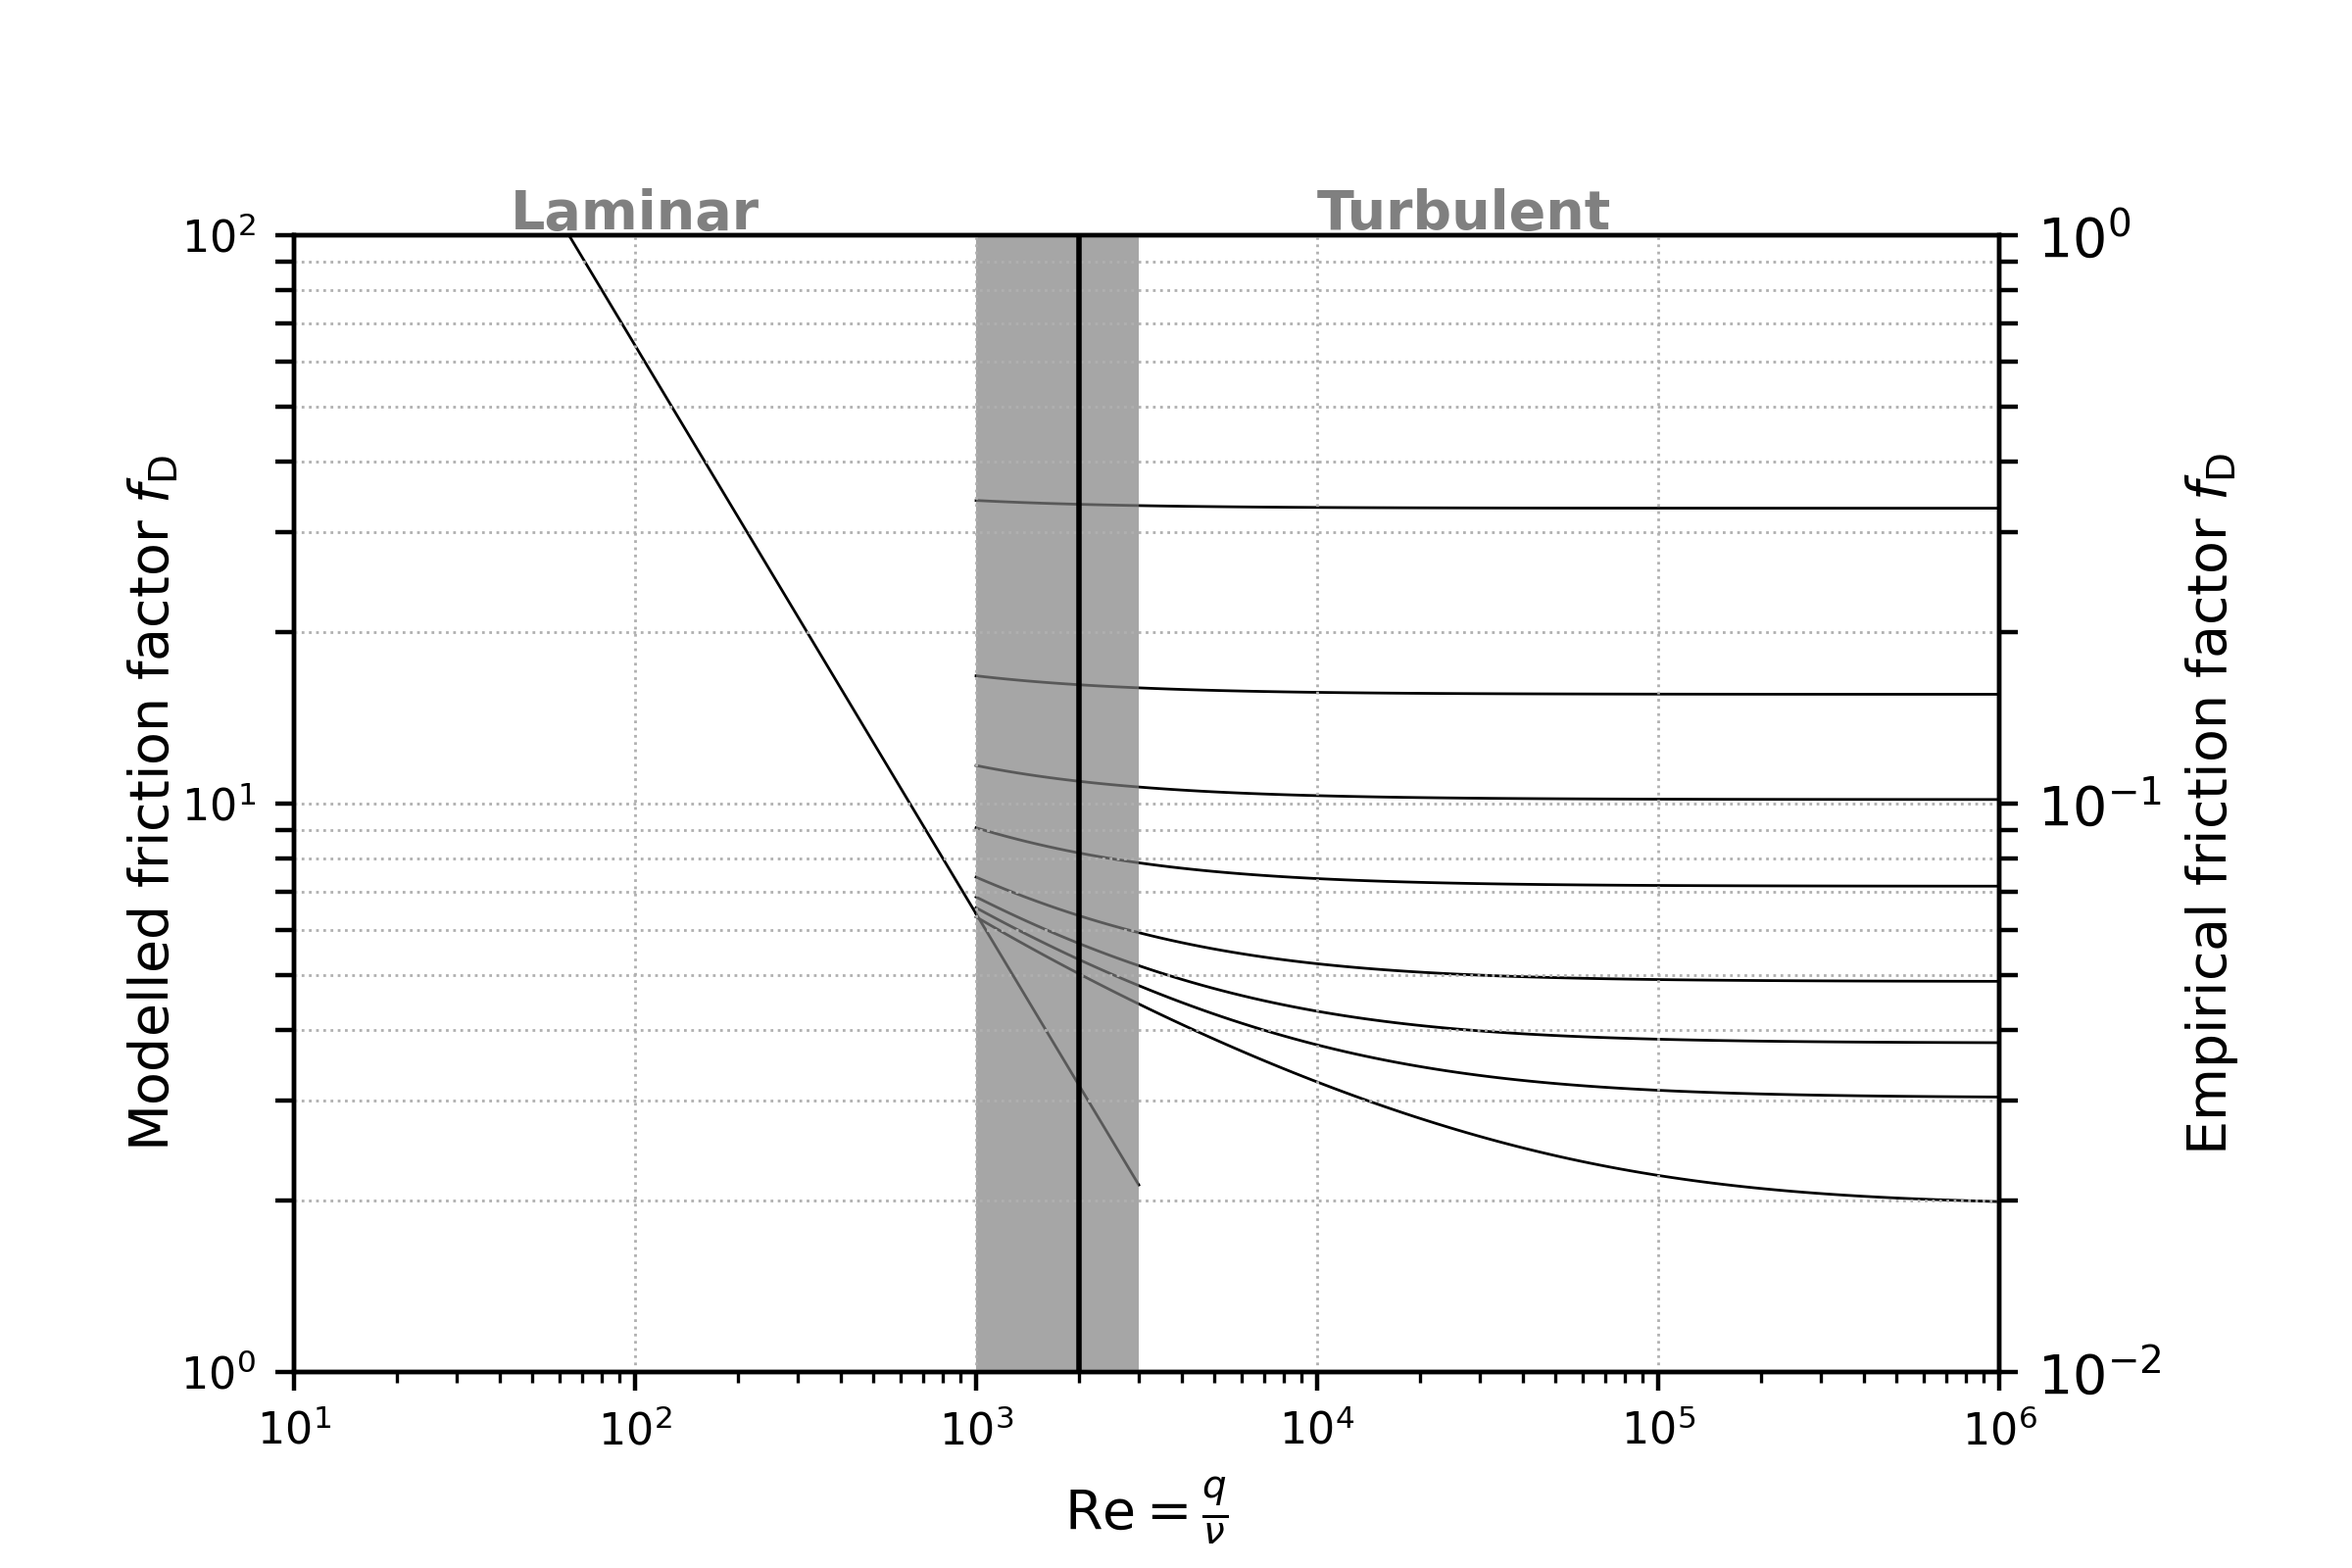
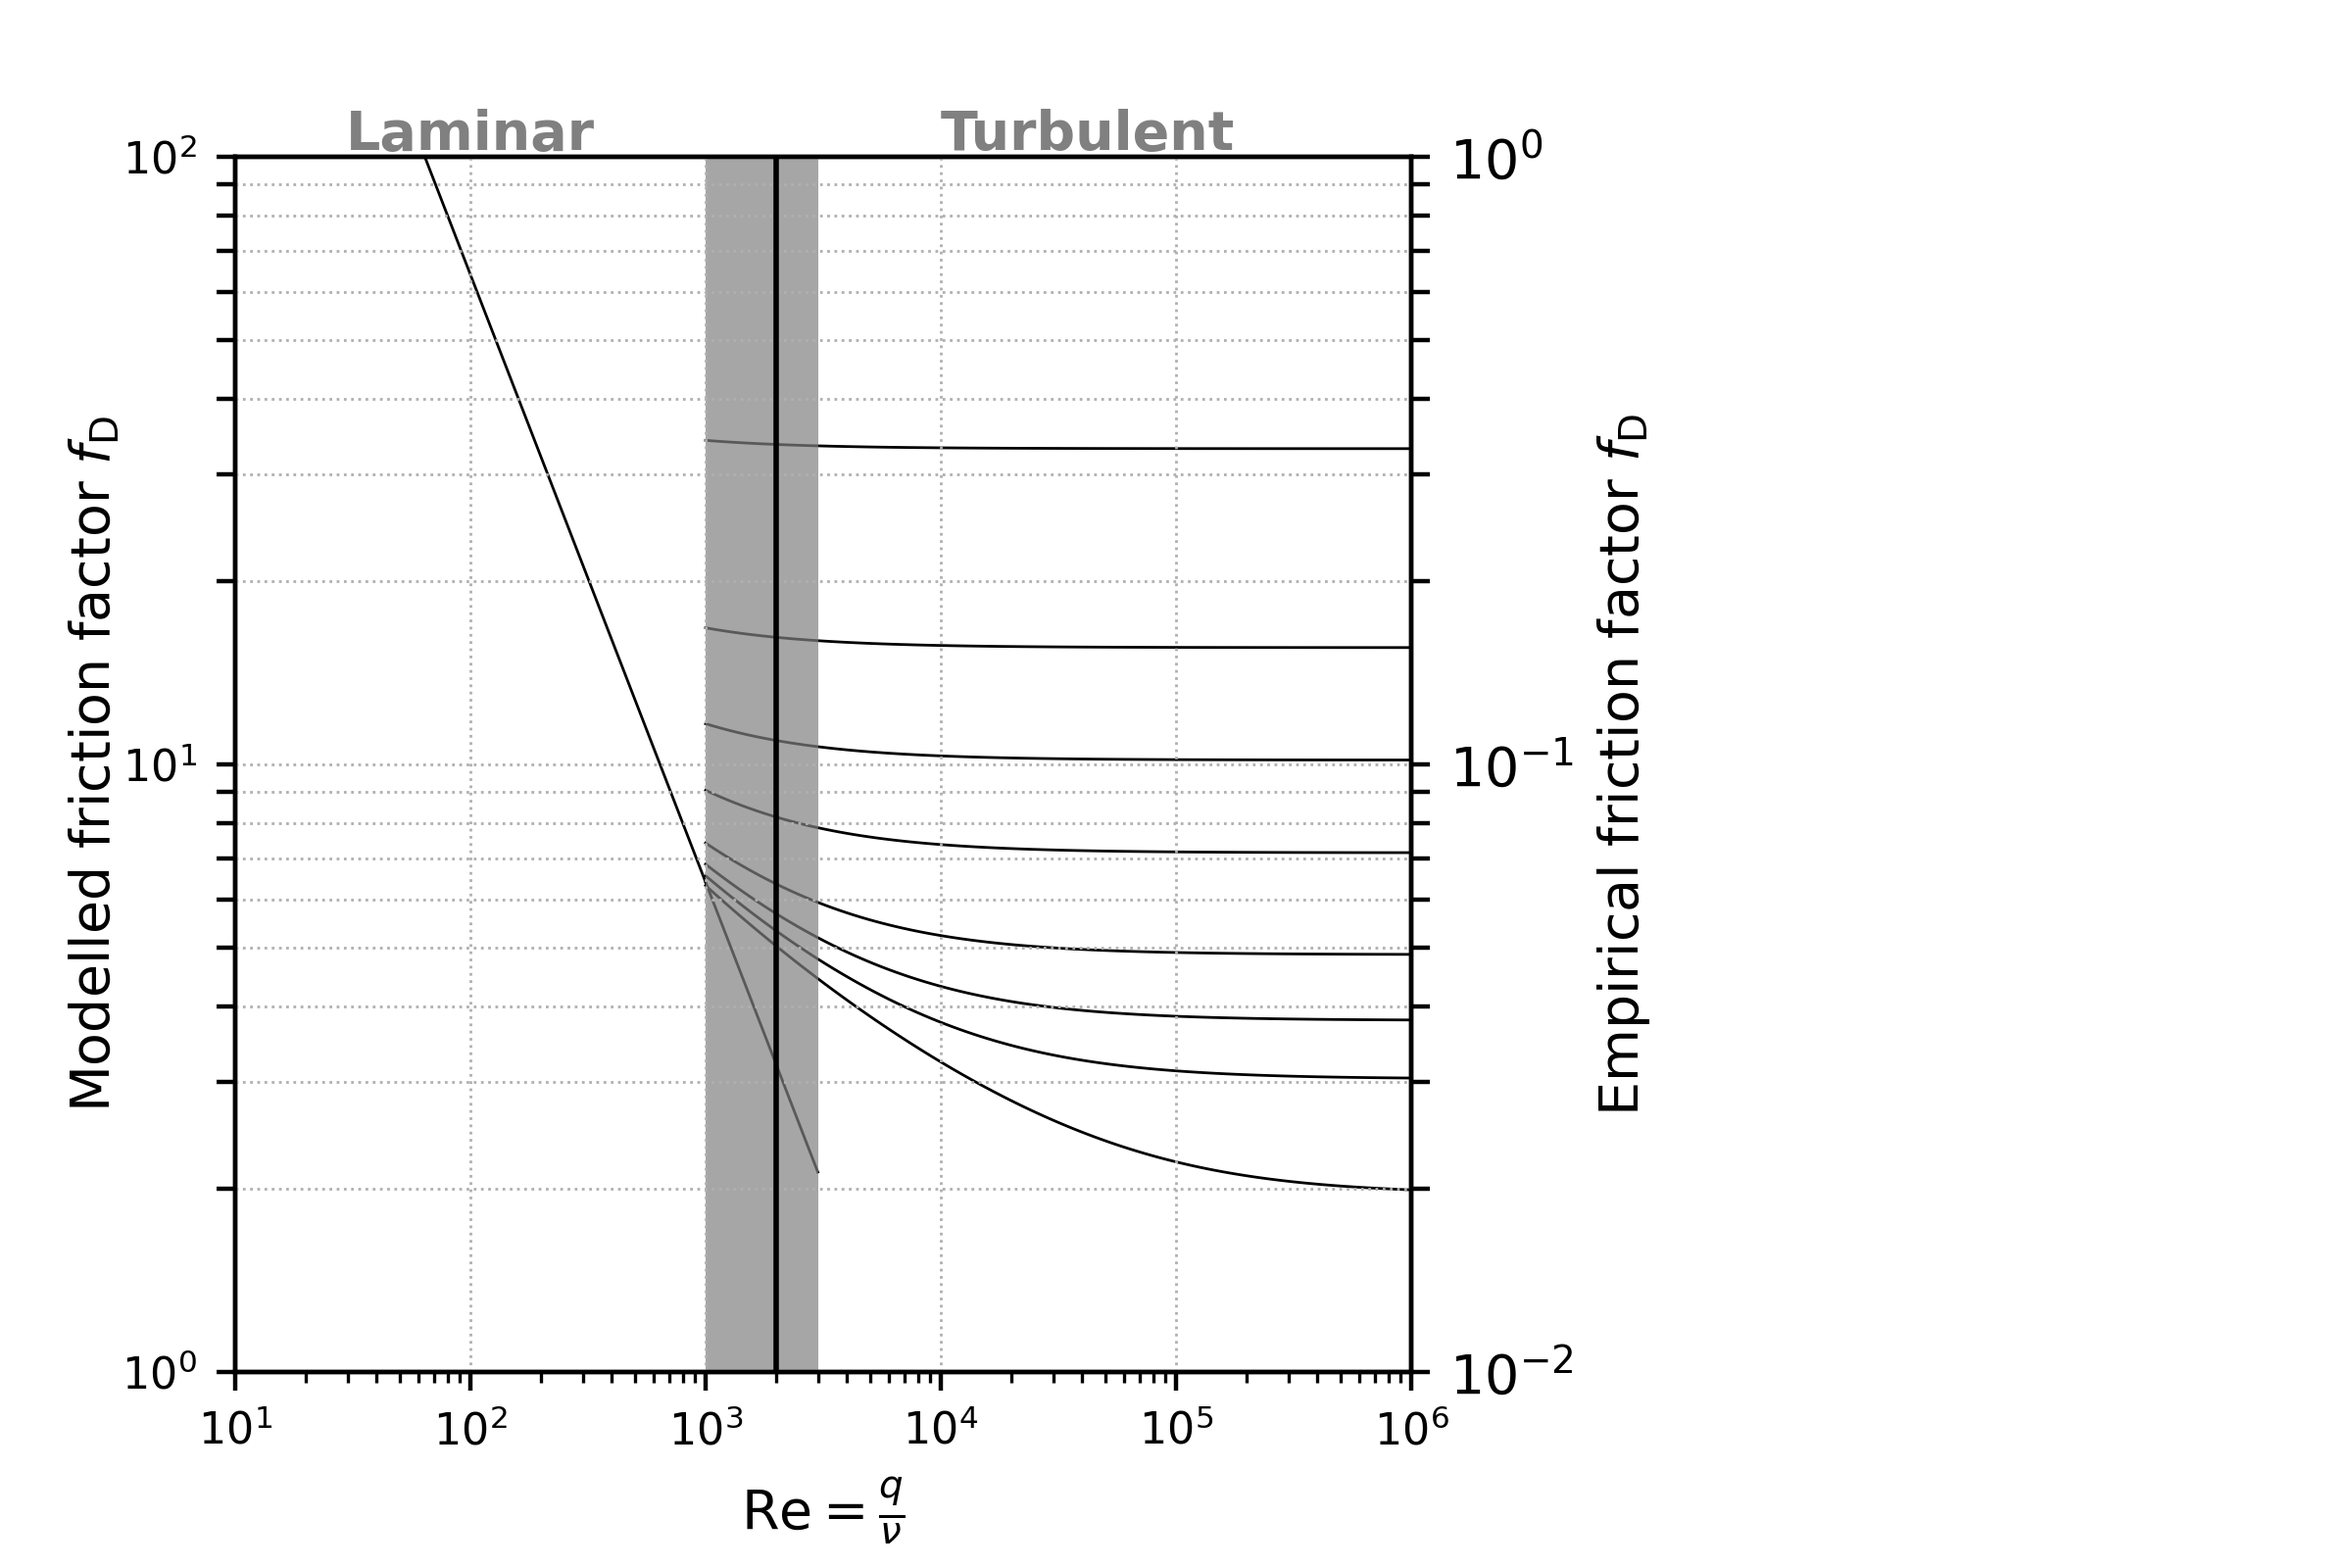
Fig 00

diff --git a/analysis/NWG23/plot_moody_scatter.py b/analysis/NWG23/plot_moody_scatter.py
@@ -202,6 +202,8 @@ def plot_moody(fnames, fignames, colors=defaults.colors, omega=1/2000,
     fig_theory.subplots_adjust(wspace=0.45, bottom=0.15, left=0.125, right=0.85, top=0.95)
     fig_scatter.subplots_adjust(wspace=0.45, bottom=0.125, left=0.125, right=0.85, top=0.85)
 
+    fig_scatter.subplots_adjust(right=0.6, left=0.1, top=0.9)
+
     fig_scatter.savefig('moody_scatter_00.png', dpi=400)
     checkpoints = [1, 2, 4]
     checknames = [  'moody_scatter_01.png',
